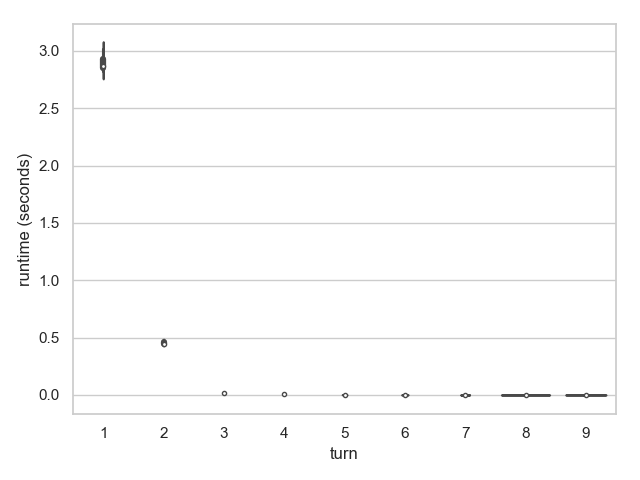
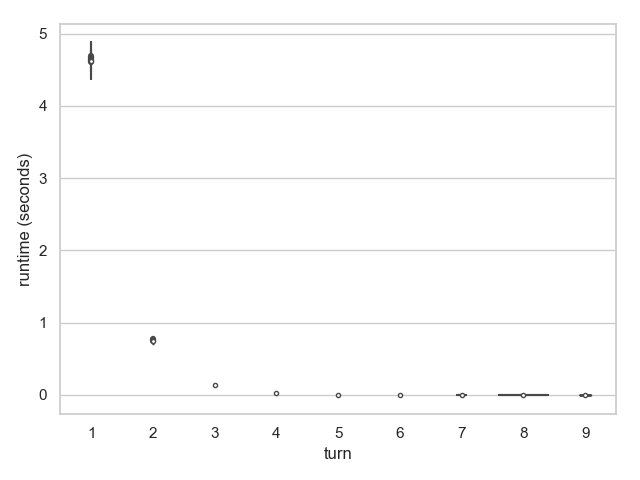
Fixed caching for alpha-beta pruning

diff --git a/tic_tac_toe/agents/alpha_beta_agent.py b/tic_tac_toe/agents/alpha_beta_agent.py
@@ -30,15 +30,15 @@ class AlphaBetaAgent(Agent):
             key=lambda t: t[1] # select min by score in (move, score)
             )[0] # select move in (move, score)
 
-    def _minimax_move(self, move, board, player, depth=0, alpha=-2, beta=2):
+    def _minimax_move(self, move, board, player, depth=0, alpha=-2, beta=2, pruned=[False]):
         # update board for new "state"
         board.set_cell(move.player, move.row, move.col)
         self._states_visited_last_turn += 1
-        score = self._minimax_state(board, player, depth+1, alpha, beta)
+        score = self._minimax_state(board, player, depth+1, alpha, beta, pruned)
         board.set_cell(CellState.EMPTY, move.row, move.col)
         return score
 
-    def _minimax_state(self, board, player, depth, alpha, beta, pruned=False):
+    def _minimax_state(self, board, player, depth, alpha, beta, pruned):
         if hash(board) in self._cached_leaf_nodes:
             return self._cached_leaf_nodes[hash(board)]
 
@@ -55,15 +55,18 @@ class AlphaBetaAgent(Agent):
         moves.sort(key=lambda move: -self._evaluate_move(board, player, move))
 
         for next_move in moves:
-            
+            child_pruned = [False]
             score = max(score,
-                    self._apply_multiplier(-1,self._minimax_move(next_move, board, other_player(player),depth,-beta,-alpha)))
-
+                    self._apply_multiplier(-1,self._minimax_move(next_move, board, other_player(player),depth,-beta,-alpha, child_pruned)))
+            if child_pruned[0]:
+                pruned[0] = True
             if score[0] >= beta:
+                pruned[0] = True
                 return score
             alpha = max(alpha, score[0])
 
-        #self._cached_leaf_nodes[hash(board)] = score
+        if not pruned[0]:
+            self._cached_leaf_nodes[hash(board)] = score
         return score
 
     def _apply_multiplier(self, multiplier, score):
@@ -74,7 +77,7 @@ class AlphaBetaAgent(Agent):
         score = self._evaluate(board, player)
         self._eval_cache[hash(board)] = score
         board.set_cell(CellState.EMPTY, move.row, move.col)
-        return score
+        return -score
 
     def _evaluate(self, board, player):
         # check leaf node cache
